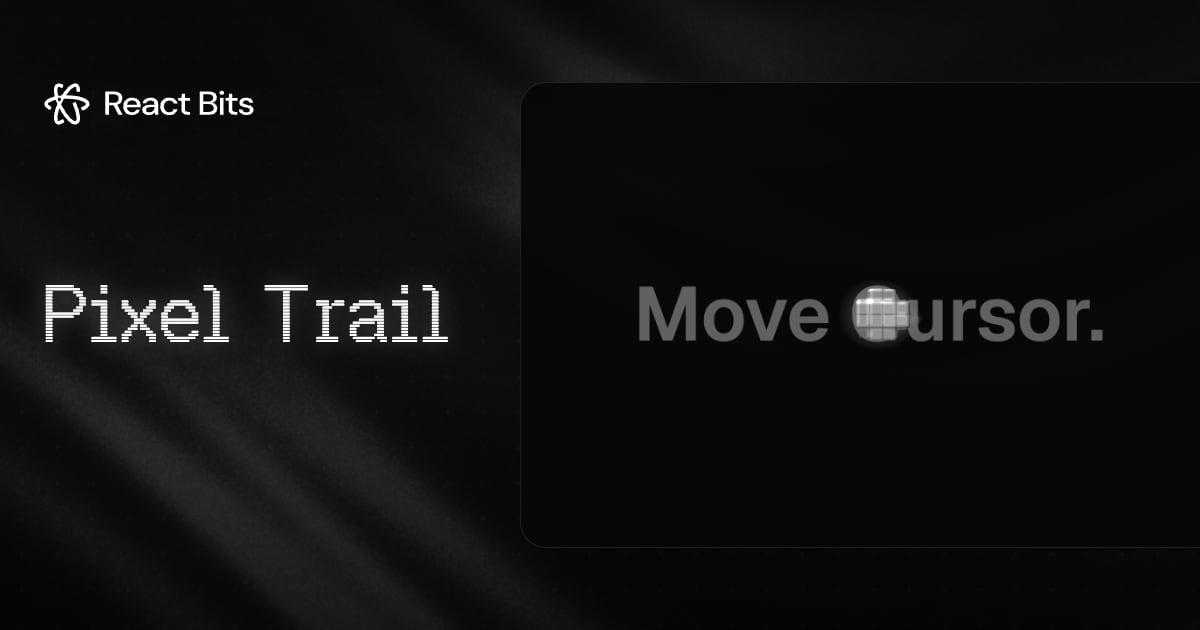
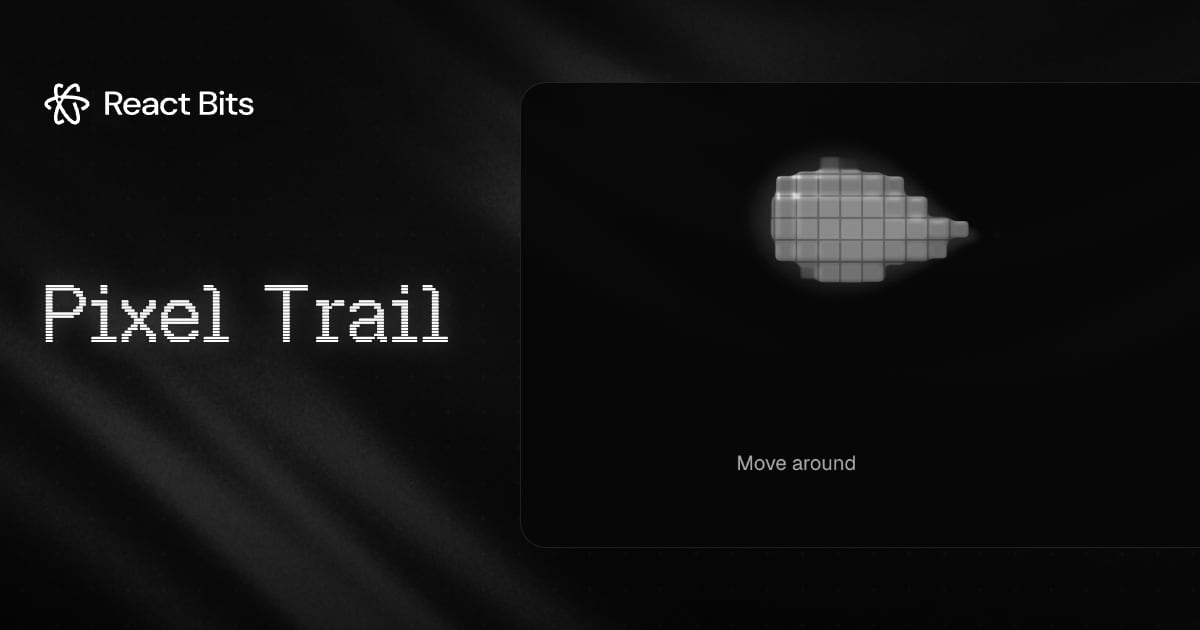
update defaults

Changed region(s): [[0.5242, 0.2413, 0.925, 0.5429], [0.6167, 0.7238, 0.7092, 0.754]]

diff --git a/src/demo/Animations/PixelTrailDemo.jsx b/src/demo/Animations/PixelTrailDemo.jsx
@@ -26,11 +26,11 @@ const NIGHT_SKY = '/assets/demo/night-sky.webp';
 const LOOK = {
   gridSize: 50,
   trailSize: 0.1,
-  maxAge: 250,
+  maxAge: 500,
   interpolate: 5,
-  color: '#5227FF',
-  colorShift: false,
-  shiftColor: '#5227FF',
+  color: '#A855F7',
+  colorShift: true,
+  shiftColor: '#A855F7',
   gooeyEnabled: true,
   gooStrength: 2,
   shape: 'square',
@@ -244,13 +244,17 @@ const PixelTrailDemo = () => {
               imageSrc={imageSrc}
             />
             <Text
-              className="demo-instruction"
               position="absolute"
+              bottom={5}
+              left="50%"
+              transform="translateX(-50%)"
               zIndex={0}
-              fontSize="clamp(2rem, 6vw, 6rem)"
-              fontWeight={600}
+              fontSize="sm"
+              color="var(--text-dimmed)"
+              userSelect="none"
+              pointerEvents="none"
             >
-              Move Cursor.
+              {settings.clickBurst ? 'Move and click' : 'Move around'}
             </Text>
           </Box>
 

diff --git a/src/constants/code/Animations/pixelTrailCode.js b/src/constants/code/Animations/pixelTrailCode.js
@@ -11,9 +11,9 @@ export const pixelTrail = {
   <PixelTrail
     gridSize={50}
     trailSize={0.1}
-    maxAge={250}
+    maxAge={500}
     interpolate={5}
-    color="#5227FF"
+    color="#A855F7"
   />
 </div>`,
   code,
